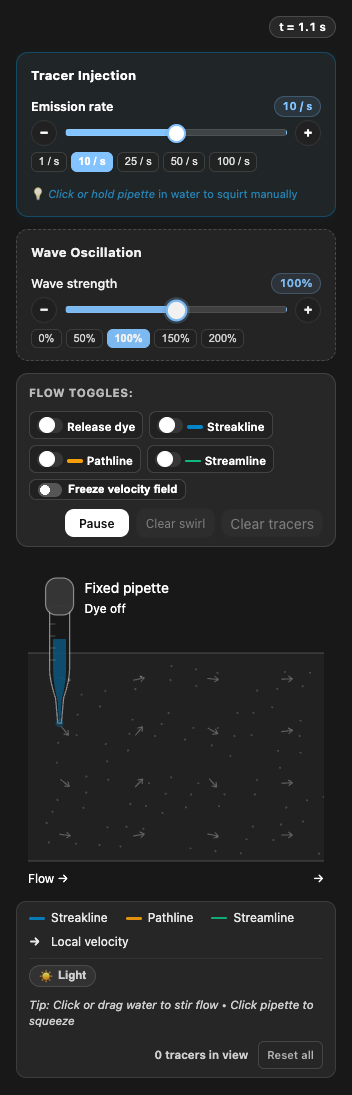
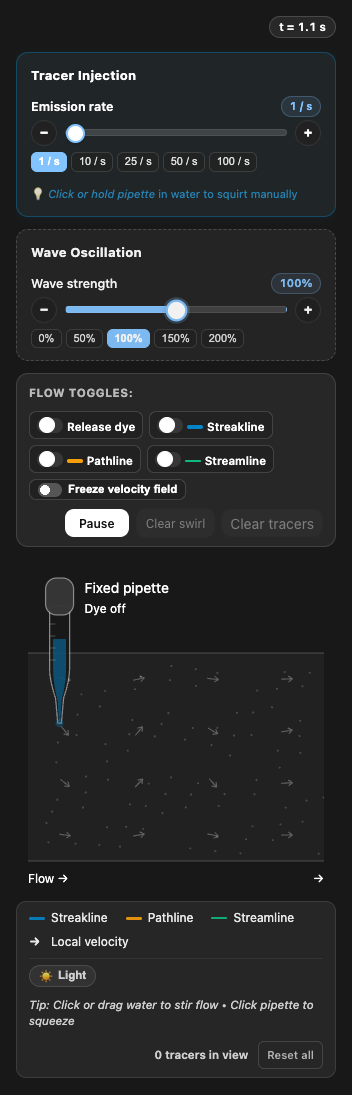
Make 1/s the default tracer emission rate

Changed region(s): [[0.0938, 0.0932, 0.5312, 0.1553], [0.7812, 0.0932, 0.8438, 0.1242]]

diff --git a/dist/index.html b/dist/index.html
@@ -1346,19 +1346,19 @@ html&gt;body{padding:0}&lt;/style&gt;
       &lt;label class=&quot;form-label&quot; for=&quot;sl-rate&quot;&gt;
         &lt;div class=&quot;sl-label-row&quot;&gt;
           &lt;span class=&quot;sl-rate-label-text&quot;&gt;Emission rate&lt;/span&gt;
-          &lt;span class=&quot;text-small tabular-nums sl-badge sl-badge-primary&quot; id=&quot;sl-rate-val&quot;&gt;10 / s&lt;/span&gt;
+          &lt;span class=&quot;text-small tabular-nums sl-badge sl-badge-primary&quot; id=&quot;sl-rate-val&quot;&gt;1 / s&lt;/span&gt;
         &lt;/div&gt;
         &lt;div class=&quot;sl-slider-container&quot;&gt;
           &lt;div class=&quot;sl-slider-row&quot;&gt;
             &lt;button type=&quot;button&quot; class=&quot;sl-step-btn&quot; data-step-for=&quot;sl-rate&quot; data-dir=&quot;-1&quot; aria-label=&quot;Decrease tracer rate&quot;&gt;−&lt;/button&gt;
             &lt;div class=&quot;sl-slider-wrapper&quot;&gt;
-              &lt;input class=&quot;form-range&quot; type=&quot;range&quot; id=&quot;sl-rate&quot; min=&quot;0&quot; max=&quot;1000&quot; step=&quot;1&quot; value=&quot;500&quot; data-min=&quot;1&quot; data-max=&quot;100&quot; data-rate=&quot;10&quot; style=&quot;--sl-pct: 50%;&quot;&gt;
+              &lt;input class=&quot;form-range&quot; type=&quot;range&quot; id=&quot;sl-rate&quot; min=&quot;0&quot; max=&quot;1000&quot; step=&quot;1&quot; value=&quot;0&quot; data-min=&quot;1&quot; data-max=&quot;100&quot; data-rate=&quot;1&quot; style=&quot;--sl-pct: 0%;&quot;&gt;
             &lt;/div&gt;
             &lt;button type=&quot;button&quot; class=&quot;sl-step-btn&quot; data-step-for=&quot;sl-rate&quot; data-dir=&quot;1&quot; aria-label=&quot;Increase tracer rate&quot;&gt;+&lt;/button&gt;
           &lt;/div&gt;
           &lt;div class=&quot;sl-presets&quot;&gt;
-            &lt;button type=&quot;button&quot; class=&quot;sl-chip&quot; data-for=&quot;sl-rate&quot; data-val=&quot;1&quot;&gt;1 / s&lt;/button&gt;
-            &lt;button type=&quot;button&quot; class=&quot;sl-chip is-active&quot; data-for=&quot;sl-rate&quot; data-val=&quot;10&quot;&gt;10 / s&lt;/button&gt;
+            &lt;button type=&quot;button&quot; class=&quot;sl-chip is-active&quot; data-for=&quot;sl-rate&quot; data-val=&quot;1&quot;&gt;1 / s&lt;/button&gt;
+            &lt;button type=&quot;button&quot; class=&quot;sl-chip&quot; data-for=&quot;sl-rate&quot; data-val=&quot;10&quot;&gt;10 / s&lt;/button&gt;
             &lt;button type=&quot;button&quot; class=&quot;sl-chip&quot; data-for=&quot;sl-rate&quot; data-val=&quot;25&quot;&gt;25 / s&lt;/button&gt;
             &lt;button type=&quot;button&quot; class=&quot;sl-chip&quot; data-for=&quot;sl-rate&quot; data-val=&quot;50&quot;&gt;50 / s&lt;/button&gt;
             &lt;button type=&quot;button&quot; class=&quot;sl-chip&quot; data-for=&quot;sl-rate&quot; data-val=&quot;100&quot;&gt;100 / s&lt;/button&gt;
@@ -2315,7 +2315,7 @@ html&gt;body{padding:0}&lt;/style&gt;
     }
   });
   const reducedMotion = window.matchMedia(&#x27;(prefers-reduced-motion: reduce)&#x27;);
-  const state = { frozenField: false, paused: reducedMotion.matches, injecting: false, rate: 10, line: false, pathline: false, streamline: false, waveStrength: 1 };
+  const state = { frozenField: false, paused: reducedMotion.matches, injecting: false, rate: 1, line: false, pathline: false, streamline: false, waveStrength: 1 };
   let fieldTime = 0;
   const vortex = { active: false, x: 6, y: 2, gamma: 1.2 };
   const L = 12, H = 4, U = 0.65, B = 0.50, K = 0.82, OMEGA = 0.58;
@@ -2814,7 +2814,7 @@ html&gt;body{padding:0}&lt;/style&gt;
     state.line = false;
     state.pathline = false;
     state.streamline = false;
-    state.rate = 10;
+    state.rate = 1;
     state.waveStrength = 1;
     vortex.active = false;
     isPipetteHeld = false;
@@ -2875,6 +2875,7 @@ html&gt;body{padding:0}&lt;/style&gt;
   layout(); requestAnimationFrame(animate);
 })();
 &lt;/script&gt;
+
 
 
 

diff --git a/index.html b/index.html
@@ -1346,19 +1346,19 @@ html&gt;body{padding:0}&lt;/style&gt;
       &lt;label class=&quot;form-label&quot; for=&quot;sl-rate&quot;&gt;
         &lt;div class=&quot;sl-label-row&quot;&gt;
           &lt;span class=&quot;sl-rate-label-text&quot;&gt;Emission rate&lt;/span&gt;
-          &lt;span class=&quot;text-small tabular-nums sl-badge sl-badge-primary&quot; id=&quot;sl-rate-val&quot;&gt;10 / s&lt;/span&gt;
+          &lt;span class=&quot;text-small tabular-nums sl-badge sl-badge-primary&quot; id=&quot;sl-rate-val&quot;&gt;1 / s&lt;/span&gt;
         &lt;/div&gt;
         &lt;div class=&quot;sl-slider-container&quot;&gt;
           &lt;div class=&quot;sl-slider-row&quot;&gt;
             &lt;button type=&quot;button&quot; class=&quot;sl-step-btn&quot; data-step-for=&quot;sl-rate&quot; data-dir=&quot;-1&quot; aria-label=&quot;Decrease tracer rate&quot;&gt;−&lt;/button&gt;
             &lt;div class=&quot;sl-slider-wrapper&quot;&gt;
-              &lt;input class=&quot;form-range&quot; type=&quot;range&quot; id=&quot;sl-rate&quot; min=&quot;0&quot; max=&quot;1000&quot; step=&quot;1&quot; value=&quot;500&quot; data-min=&quot;1&quot; data-max=&quot;100&quot; data-rate=&quot;10&quot; style=&quot;--sl-pct: 50%;&quot;&gt;
+              &lt;input class=&quot;form-range&quot; type=&quot;range&quot; id=&quot;sl-rate&quot; min=&quot;0&quot; max=&quot;1000&quot; step=&quot;1&quot; value=&quot;0&quot; data-min=&quot;1&quot; data-max=&quot;100&quot; data-rate=&quot;1&quot; style=&quot;--sl-pct: 0%;&quot;&gt;
             &lt;/div&gt;
             &lt;button type=&quot;button&quot; class=&quot;sl-step-btn&quot; data-step-for=&quot;sl-rate&quot; data-dir=&quot;1&quot; aria-label=&quot;Increase tracer rate&quot;&gt;+&lt;/button&gt;
           &lt;/div&gt;
           &lt;div class=&quot;sl-presets&quot;&gt;
-            &lt;button type=&quot;button&quot; class=&quot;sl-chip&quot; data-for=&quot;sl-rate&quot; data-val=&quot;1&quot;&gt;1 / s&lt;/button&gt;
-            &lt;button type=&quot;button&quot; class=&quot;sl-chip is-active&quot; data-for=&quot;sl-rate&quot; data-val=&quot;10&quot;&gt;10 / s&lt;/button&gt;
+            &lt;button type=&quot;button&quot; class=&quot;sl-chip is-active&quot; data-for=&quot;sl-rate&quot; data-val=&quot;1&quot;&gt;1 / s&lt;/button&gt;
+            &lt;button type=&quot;button&quot; class=&quot;sl-chip&quot; data-for=&quot;sl-rate&quot; data-val=&quot;10&quot;&gt;10 / s&lt;/button&gt;
             &lt;button type=&quot;button&quot; class=&quot;sl-chip&quot; data-for=&quot;sl-rate&quot; data-val=&quot;25&quot;&gt;25 / s&lt;/button&gt;
             &lt;button type=&quot;button&quot; class=&quot;sl-chip&quot; data-for=&quot;sl-rate&quot; data-val=&quot;50&quot;&gt;50 / s&lt;/button&gt;
             &lt;button type=&quot;button&quot; class=&quot;sl-chip&quot; data-for=&quot;sl-rate&quot; data-val=&quot;100&quot;&gt;100 / s&lt;/button&gt;
@@ -2315,7 +2315,7 @@ html&gt;body{padding:0}&lt;/style&gt;
     }
   });
   const reducedMotion = window.matchMedia(&#x27;(prefers-reduced-motion: reduce)&#x27;);
-  const state = { frozenField: false, paused: reducedMotion.matches, injecting: false, rate: 10, line: false, pathline: false, streamline: false, waveStrength: 1 };
+  const state = { frozenField: false, paused: reducedMotion.matches, injecting: false, rate: 1, line: false, pathline: false, streamline: false, waveStrength: 1 };
   let fieldTime = 0;
   const vortex = { active: false, x: 6, y: 2, gamma: 1.2 };
   const L = 12, H = 4, U = 0.65, B = 0.50, K = 0.82, OMEGA = 0.58;
@@ -2814,7 +2814,7 @@ html&gt;body{padding:0}&lt;/style&gt;
     state.line = false;
     state.pathline = false;
     state.streamline = false;
-    state.rate = 10;
+    state.rate = 1;
     state.waveStrength = 1;
     vortex.active = false;
     isPipetteHeld = false;
@@ -2875,6 +2875,7 @@ html&gt;body{padding:0}&lt;/style&gt;
   layout(); requestAnimationFrame(animate);
 })();
 &lt;/script&gt;
+
 
 
 

diff --git a/outputs/streakline-demo.html b/outputs/streakline-demo.html
@@ -1346,19 +1346,19 @@ html&gt;body{padding:0}&lt;/style&gt;
       &lt;label class=&quot;form-label&quot; for=&quot;sl-rate&quot;&gt;
         &lt;div class=&quot;sl-label-row&quot;&gt;
           &lt;span class=&quot;sl-rate-label-text&quot;&gt;Emission rate&lt;/span&gt;
-          &lt;span class=&quot;text-small tabular-nums sl-badge sl-badge-primary&quot; id=&quot;sl-rate-val&quot;&gt;10 / s&lt;/span&gt;
+          &lt;span class=&quot;text-small tabular-nums sl-badge sl-badge-primary&quot; id=&quot;sl-rate-val&quot;&gt;1 / s&lt;/span&gt;
         &lt;/div&gt;
         &lt;div class=&quot;sl-slider-container&quot;&gt;
           &lt;div class=&quot;sl-slider-row&quot;&gt;
             &lt;button type=&quot;button&quot; class=&quot;sl-step-btn&quot; data-step-for=&quot;sl-rate&quot; data-dir=&quot;-1&quot; aria-label=&quot;Decrease tracer rate&quot;&gt;−&lt;/button&gt;
             &lt;div class=&quot;sl-slider-wrapper&quot;&gt;
-              &lt;input class=&quot;form-range&quot; type=&quot;range&quot; id=&quot;sl-rate&quot; min=&quot;0&quot; max=&quot;1000&quot; step=&quot;1&quot; value=&quot;500&quot; data-min=&quot;1&quot; data-max=&quot;100&quot; data-rate=&quot;10&quot; style=&quot;--sl-pct: 50%;&quot;&gt;
+              &lt;input class=&quot;form-range&quot; type=&quot;range&quot; id=&quot;sl-rate&quot; min=&quot;0&quot; max=&quot;1000&quot; step=&quot;1&quot; value=&quot;0&quot; data-min=&quot;1&quot; data-max=&quot;100&quot; data-rate=&quot;1&quot; style=&quot;--sl-pct: 0%;&quot;&gt;
             &lt;/div&gt;
             &lt;button type=&quot;button&quot; class=&quot;sl-step-btn&quot; data-step-for=&quot;sl-rate&quot; data-dir=&quot;1&quot; aria-label=&quot;Increase tracer rate&quot;&gt;+&lt;/button&gt;
           &lt;/div&gt;
           &lt;div class=&quot;sl-presets&quot;&gt;
-            &lt;button type=&quot;button&quot; class=&quot;sl-chip&quot; data-for=&quot;sl-rate&quot; data-val=&quot;1&quot;&gt;1 / s&lt;/button&gt;
-            &lt;button type=&quot;button&quot; class=&quot;sl-chip is-active&quot; data-for=&quot;sl-rate&quot; data-val=&quot;10&quot;&gt;10 / s&lt;/button&gt;
+            &lt;button type=&quot;button&quot; class=&quot;sl-chip is-active&quot; data-for=&quot;sl-rate&quot; data-val=&quot;1&quot;&gt;1 / s&lt;/button&gt;
+            &lt;button type=&quot;button&quot; class=&quot;sl-chip&quot; data-for=&quot;sl-rate&quot; data-val=&quot;10&quot;&gt;10 / s&lt;/button&gt;
             &lt;button type=&quot;button&quot; class=&quot;sl-chip&quot; data-for=&quot;sl-rate&quot; data-val=&quot;25&quot;&gt;25 / s&lt;/button&gt;
             &lt;button type=&quot;button&quot; class=&quot;sl-chip&quot; data-for=&quot;sl-rate&quot; data-val=&quot;50&quot;&gt;50 / s&lt;/button&gt;
             &lt;button type=&quot;button&quot; class=&quot;sl-chip&quot; data-for=&quot;sl-rate&quot; data-val=&quot;100&quot;&gt;100 / s&lt;/button&gt;
@@ -2315,7 +2315,7 @@ html&gt;body{padding:0}&lt;/style&gt;
     }
   });
   const reducedMotion = window.matchMedia(&#x27;(prefers-reduced-motion: reduce)&#x27;);
-  const state = { frozenField: false, paused: reducedMotion.matches, injecting: false, rate: 10, line: false, pathline: false, streamline: false, waveStrength: 1 };
+  const state = { frozenField: false, paused: reducedMotion.matches, injecting: false, rate: 1, line: false, pathline: false, streamline: false, waveStrength: 1 };
   let fieldTime = 0;
   const vortex = { active: false, x: 6, y: 2, gamma: 1.2 };
   const L = 12, H = 4, U = 0.65, B = 0.50, K = 0.82, OMEGA = 0.58;
@@ -2814,7 +2814,7 @@ html&gt;body{padding:0}&lt;/style&gt;
     state.line = false;
     state.pathline = false;
     state.streamline = false;
-    state.rate = 10;
+    state.rate = 1;
     state.waveStrength = 1;
     vortex.active = false;
     isPipetteHeld = false;
@@ -2875,6 +2875,7 @@ html&gt;body{padding:0}&lt;/style&gt;
   layout(); requestAnimationFrame(animate);
 })();
 &lt;/script&gt;
+
 
 
 

diff --git a/work/streakline-preview.html b/work/streakline-preview.html
@@ -1346,19 +1346,19 @@ html&gt;body{padding:0}&lt;/style&gt;
       &lt;label class=&quot;form-label&quot; for=&quot;sl-rate&quot;&gt;
         &lt;div class=&quot;sl-label-row&quot;&gt;
           &lt;span class=&quot;sl-rate-label-text&quot;&gt;Emission rate&lt;/span&gt;
-          &lt;span class=&quot;text-small tabular-nums sl-badge sl-badge-primary&quot; id=&quot;sl-rate-val&quot;&gt;10 / s&lt;/span&gt;
+          &lt;span class=&quot;text-small tabular-nums sl-badge sl-badge-primary&quot; id=&quot;sl-rate-val&quot;&gt;1 / s&lt;/span&gt;
         &lt;/div&gt;
         &lt;div class=&quot;sl-slider-container&quot;&gt;
           &lt;div class=&quot;sl-slider-row&quot;&gt;
             &lt;button type=&quot;button&quot; class=&quot;sl-step-btn&quot; data-step-for=&quot;sl-rate&quot; data-dir=&quot;-1&quot; aria-label=&quot;Decrease tracer rate&quot;&gt;−&lt;/button&gt;
             &lt;div class=&quot;sl-slider-wrapper&quot;&gt;
-              &lt;input class=&quot;form-range&quot; type=&quot;range&quot; id=&quot;sl-rate&quot; min=&quot;0&quot; max=&quot;1000&quot; step=&quot;1&quot; value=&quot;500&quot; data-min=&quot;1&quot; data-max=&quot;100&quot; data-rate=&quot;10&quot; style=&quot;--sl-pct: 50%;&quot;&gt;
+              &lt;input class=&quot;form-range&quot; type=&quot;range&quot; id=&quot;sl-rate&quot; min=&quot;0&quot; max=&quot;1000&quot; step=&quot;1&quot; value=&quot;0&quot; data-min=&quot;1&quot; data-max=&quot;100&quot; data-rate=&quot;1&quot; style=&quot;--sl-pct: 0%;&quot;&gt;
             &lt;/div&gt;
             &lt;button type=&quot;button&quot; class=&quot;sl-step-btn&quot; data-step-for=&quot;sl-rate&quot; data-dir=&quot;1&quot; aria-label=&quot;Increase tracer rate&quot;&gt;+&lt;/button&gt;
           &lt;/div&gt;
           &lt;div class=&quot;sl-presets&quot;&gt;
-            &lt;button type=&quot;button&quot; class=&quot;sl-chip&quot; data-for=&quot;sl-rate&quot; data-val=&quot;1&quot;&gt;1 / s&lt;/button&gt;
-            &lt;button type=&quot;button&quot; class=&quot;sl-chip is-active&quot; data-for=&quot;sl-rate&quot; data-val=&quot;10&quot;&gt;10 / s&lt;/button&gt;
+            &lt;button type=&quot;button&quot; class=&quot;sl-chip is-active&quot; data-for=&quot;sl-rate&quot; data-val=&quot;1&quot;&gt;1 / s&lt;/button&gt;
+            &lt;button type=&quot;button&quot; class=&quot;sl-chip&quot; data-for=&quot;sl-rate&quot; data-val=&quot;10&quot;&gt;10 / s&lt;/button&gt;
             &lt;button type=&quot;button&quot; class=&quot;sl-chip&quot; data-for=&quot;sl-rate&quot; data-val=&quot;25&quot;&gt;25 / s&lt;/button&gt;
             &lt;button type=&quot;button&quot; class=&quot;sl-chip&quot; data-for=&quot;sl-rate&quot; data-val=&quot;50&quot;&gt;50 / s&lt;/button&gt;
             &lt;button type=&quot;button&quot; class=&quot;sl-chip&quot; data-for=&quot;sl-rate&quot; data-val=&quot;100&quot;&gt;100 / s&lt;/button&gt;
@@ -2315,7 +2315,7 @@ html&gt;body{padding:0}&lt;/style&gt;
     }
   });
   const reducedMotion = window.matchMedia(&#x27;(prefers-reduced-motion: reduce)&#x27;);
-  const state = { frozenField: false, paused: reducedMotion.matches, injecting: false, rate: 10, line: false, pathline: false, streamline: false, waveStrength: 1 };
+  const state = { frozenField: false, paused: reducedMotion.matches, injecting: false, rate: 1, line: false, pathline: false, streamline: false, waveStrength: 1 };
   let fieldTime = 0;
   const vortex = { active: false, x: 6, y: 2, gamma: 1.2 };
   const L = 12, H = 4, U = 0.65, B = 0.50, K = 0.82, OMEGA = 0.58;
@@ -2814,7 +2814,7 @@ html&gt;body{padding:0}&lt;/style&gt;
     state.line = false;
     state.pathline = false;
     state.streamline = false;
-    state.rate = 10;
+    state.rate = 1;
     state.waveStrength = 1;
     vortex.active = false;
     isPipetteHeld = false;
@@ -2875,6 +2875,7 @@ html&gt;body{padding:0}&lt;/style&gt;
   layout(); requestAnimationFrame(animate);
 })();
 &lt;/script&gt;
+
 
 
 
